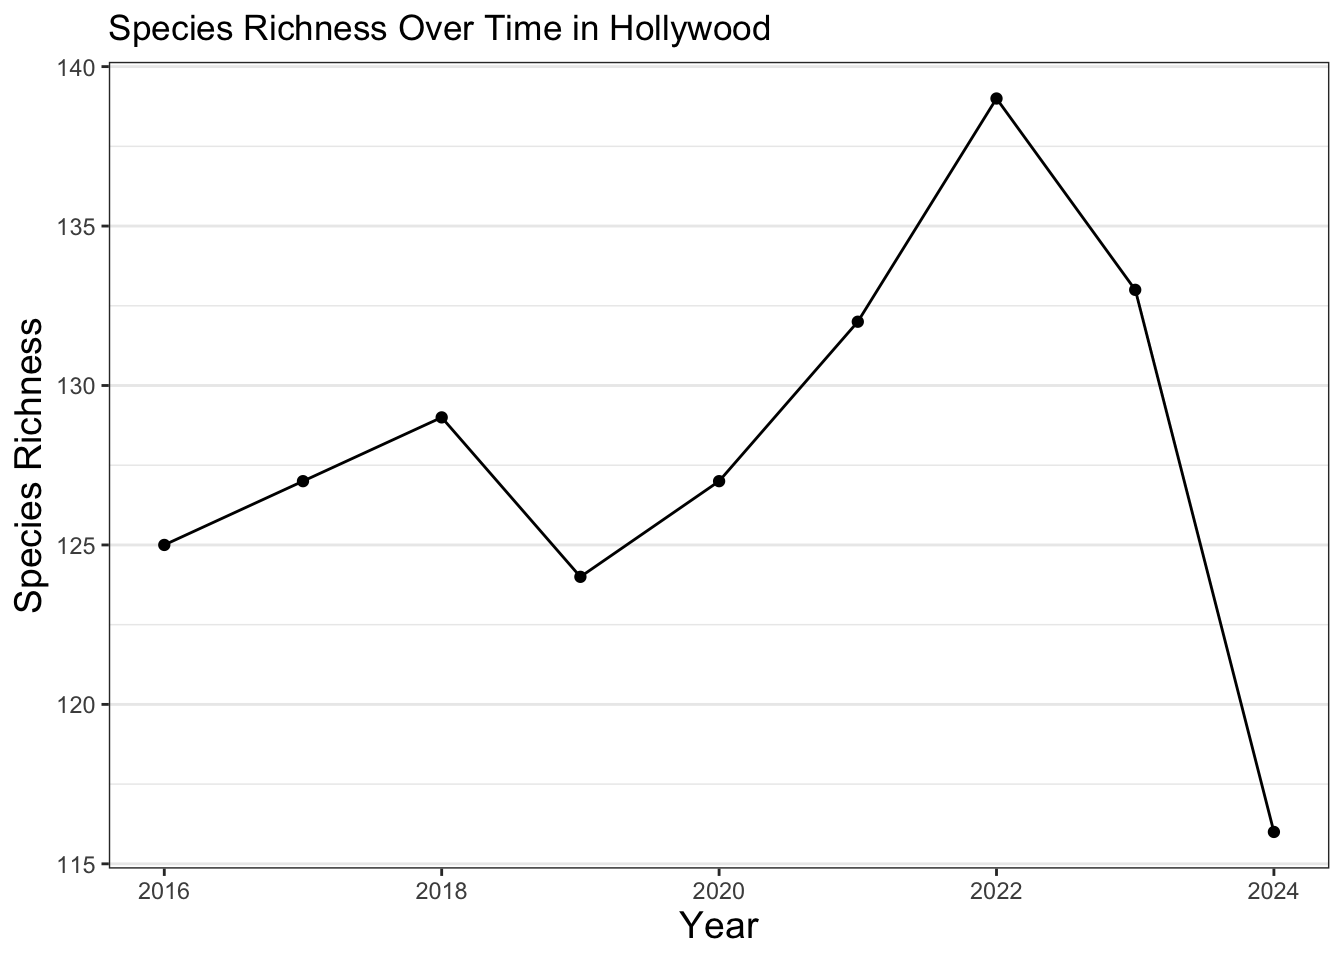
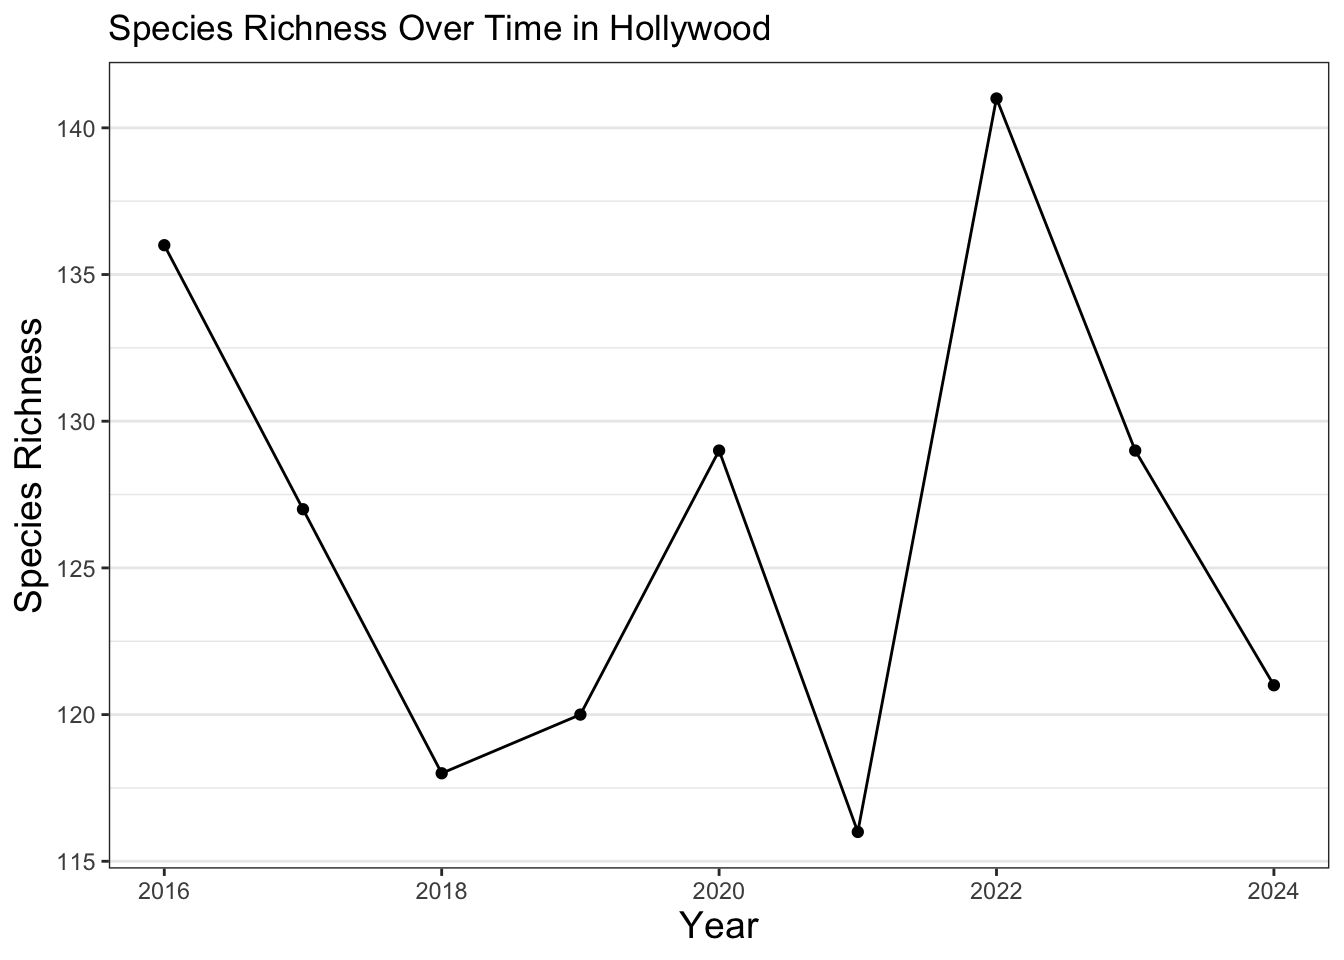
update docs

diff --git a/docs/lessons/example-analysis.html b/docs/lessons/example-analysis.html
@@ -428,7 +428,6 @@ date  (1): observed_on
        7        1      266 </code></pre>
 </div>
 </div>
-<p>266 research, 7 casual, and 1 needs id.</p>
 <p>Since there are a lot of ‘research’ grade observations, I’m fine with limiting the observations to ‘research’ grade.</p>
 <p>Since I want to look for observations in a certain area, I want to exclude observations that have obscured location. I use <code>table()</code> to get number of observations that have obscured locations.</p>
 <div class="cell">
@@ -439,7 +438,6 @@ FALSE  TRUE
   273     1 </code></pre>
 </div>
 </div>
-<p>273 false and 1 true.</p>
 <p>I add additional <code>filter()</code> commands for research grade and unobscured coordinates.</p>
 <div class="cell">
 <div class="sourceCode cell-code" id="cb12"><pre class="sourceCode r code-with-copy"><code class="sourceCode r"><span id="cb12-1"><a href="#cb12-1" aria-hidden="true" tabindex="-1"></a>heron_obs <span class="ot">&lt;-</span> inat_data <span class="sc">%&gt;%</span></span>
@@ -454,7 +452,20 @@ FALSE  TRUE
 <pre><code>[1] 266  37</code></pre>
 </div>
 </div>
-<p>We have 266 research observations for Great Blue Heron with unobscured locations.</p>
+<p>I have 266 research observations for Great Blue Heron with unobscured locations.</p>
+<div class="callout callout-style-default callout-note callout-titled">
+<div class="callout-header d-flex align-content-center">
+<div class="callout-icon-container">
+<i class="callout-icon"></i>
+</div>
+<div class="callout-title-container flex-fill">
+Note
+</div>
+</div>
+<div class="callout-body-container callout-body">
+<p>There are lots of different ways that to filter the iNaturalist data. You need to decide what criteria you want to use to filter the iNaturalist data.</p>
+</div>
+</div>
 <p>We can use <code>unique()</code> to double check the all the <code>filter()</code> queries give us the results we expect.</p>
 <div class="cell">
 <div class="sourceCode cell-code" id="cb14"><pre class="sourceCode r code-with-copy"><code class="sourceCode r"><span id="cb14-1"><a href="#cb14-1" aria-hidden="true" tabindex="-1"></a><span class="fu">unique</span>(heron_obs<span class="sc">$</span>taxon_kingdom_name)</span></code><button title="Copy to Clipboard" class="code-copy-button"><i class="bi"></i></button></pre></div>
@@ -482,7 +493,7 @@ FALSE  TRUE
 <section id="create-a-map-with-cnc-observations" class="level2">
 <h2 class="anchored" data-anchor-id="create-a-map-with-cnc-observations">Create a map with CNC observations</h2>
 <p>Now that I have the observations I want, I can plot them on a map.</p>
-<p>Since I want to create a map, I need to use <code>st_as_sf()</code> to convert the dataframe into a sf object with a <code>geometry</code> column. I pass in “longitude” and “latitude” to <code>coords</code> so that <code>st_as_sf()</code> know which columns are the longitude and latitude columns. I set the CRS as 4326.</p>
+<p>Since I want to create a map, I need to use <code>st_as_sf()</code> to convert the dataframe into a sf object. sf objects have a <code>geometry</code> column and other features that let us process geospatial data. I pass in “longitude” and “latitude” to <code>coords</code> so that <code>st_as_sf()</code> know which columns are the longitude and latitude columns. I set the CRS as 4326.</p>
 <div class="cell">
 <div class="sourceCode cell-code" id="cb23"><pre class="sourceCode r code-with-copy"><code class="sourceCode r"><span id="cb23-1"><a href="#cb23-1" aria-hidden="true" tabindex="-1"></a>heron_obs_sf <span class="ot">&lt;-</span> heron_obs <span class="sc">%&gt;%</span> </span>
 <span id="cb23-2"><a href="#cb23-2" aria-hidden="true" tabindex="-1"></a>  <span class="fu">st_as_sf</span>(<span class="at">coords =</span> <span class="fu">c</span>(<span class="st">"longitude"</span>, <span class="st">"latitude"</span>),   <span class="at">crs =</span> <span class="dv">4326</span>)</span></code><button title="Copy to Clipboard" class="code-copy-button"><i class="bi"></i></button></pre></div>
@@ -515,8 +526,8 @@ FALSE  TRUE
 <div class="cell">
 <div class="sourceCode cell-code" id="cb28"><pre class="sourceCode r code-with-copy"><code class="sourceCode r"><span id="cb28-1"><a href="#cb28-1" aria-hidden="true" tabindex="-1"></a>water_areas <span class="ot">&lt;-</span> <span class="fu">read_sf</span>(<span class="fu">here</span>(<span class="st">'data/cleaned/la_county_waterareas.geojson'</span>))</span></code><button title="Copy to Clipboard" class="code-copy-button"><i class="bi"></i></button></pre></div>
 </div>
-<p>I can double click <code>water_areas</code> in the Enviroment panel to look at content. Each row in the table represents a body of water. Some records have names in <code>FULLNAME</code>, some do not.</p>
-<p>When working with different geospatial datasets, we need the CRS to be the same so that everything lines up correctly. I use <code>st_crs()</code> to check the if the CRS of the heron observations is the same as the CRS of the water areas.</p>
+<p>I can double click <code>water_areas</code> in the Environment panel to look at content. Each row in the table represents a body of water. Some records have names in <code>FULLNAME</code>, some do not.</p>
+<p>When working with different geospatial data sets, we need the CRS to be the same so that everything lines up correctly. I use <code>st_crs()</code> to check the if the CRS of the heron observations is the same as the CRS of the water areas.</p>
 <div class="cell">
 <div class="sourceCode cell-code" id="cb29"><pre class="sourceCode r code-with-copy"><code class="sourceCode r"><span id="cb29-1"><a href="#cb29-1" aria-hidden="true" tabindex="-1"></a><span class="fu">st_crs</span>(water_areas) <span class="sc">==</span> <span class="fu">st_crs</span>(heron_obs_sf)</span></code><button title="Copy to Clipboard" class="code-copy-button"><i class="bi"></i></button></pre></div>
 <div class="cell-output cell-output-stdout">
@@ -555,7 +566,20 @@ Note
 </section>
 <section id="observations-near-bodies-of-water" class="level2">
 <h2 class="anchored" data-anchor-id="observations-near-bodies-of-water">Observations near bodies of water</h2>
-<p>I want to get observations within 1/2 mile of a body of water. This means I need to create a buffer 1/2 mile for all bodies of water and find observations inside the buffers.</p>
+<p>Bodies of water like rivers are kinda narrow and birds hangout in areas around water, so selecting observations that are inside river boundaries doesn’t make sense. Instead, I want to get observations within 1/2 mile of a body of water. This means I need to create a buffer 1/2 mile for all bodies of water and find observations inside the buffers.</p>
+<div class="callout callout-style-default callout-note callout-titled">
+<div class="callout-header d-flex align-content-center">
+<div class="callout-icon-container">
+<i class="callout-icon"></i>
+</div>
+<div class="callout-title-container flex-fill">
+Note
+</div>
+</div>
+<div class="callout-body-container callout-body">
+<p>Creating buffers is an optional step. If your analysis involves looking at the observations inside a region such as a park, neighborhood, county, etc, then you can skip the creating buffer.</p>
+</div>
+</div>
 <section id="create-buffer" class="level3">
 <h3 class="anchored" data-anchor-id="create-buffer">create buffer</h3>
 <p>We used CRS 4326 for the iNaturalist observations. CRS 4326 uses angle degrees. To create a buffer for a certain distance, I need to change the CRS to a CRS that uses meters. CRS 5070 uses meters.</p>
@@ -845,7 +869,7 @@ Note
 </div>
 </div>
 <div class="callout-body-container callout-body">
-<p>I don’t expect anyone in the workshop to understand this code. I just put the code here because I didn’t have time update the code in everyone’s repo.</p>
+<p>I don’t expect anyone in the workshop to understand this code. I just put the code here because I didn’t have time update the code in everyone’s repo. All you need to do is copy all this code into your script, and run the <code>download_inaturalist_images()</code> function.</p>
 </div>
 </div>
 <div class="cell">

diff --git a/docs/lessons/cleaning-data.html b/docs/lessons/cleaning-data.html
@@ -341,7 +341,7 @@ extracting from zip file</code></pre>
 <li>information about observations with threatened, native, and introduced species had to be downloaded separately</li>
 </ul>
 <p>In order to simplify things for the workshop attendees, we fixed the various issues and created a cleaned up CSV.</p>
-<p>These are the steps we took to produced the cleaned up file. The raw file is at ‘/var/folders/zw/0kb57jnn5nv9k3pgxsz86n7h0000gq/T//Rtmp5AeV5y/filea857154dd0fd’, the cleaned file is at ‘/Users/wyk/Development/science/city_nature_challenge/NHMLA_workshop/after_inaturalist_lesson/data/cleaned/cnc-los-angeles-observations.csv’</p>
+<p>These are the steps we took to produced the cleaned up file. The raw file is at ‘/var/folders/zw/0kb57jnn5nv9k3pgxsz86n7h0000gq/T//RtmpaUVlZj/filef9f7169ceaca’, the cleaned file is at ‘/Users/wyk/Development/science/city_nature_challenge/NHMLA_workshop/after_inaturalist_lesson/data/cleaned/cnc-los-angeles-observations.csv’</p>
 <div class="cell">
 <div class="sourceCode cell-code" id="cb5"><pre class="sourceCode r code-with-copy"><code class="sourceCode r"><span id="cb5-1"><a href="#cb5-1" aria-hidden="true" tabindex="-1"></a>tmp <span class="ot">&lt;-</span> <span class="fu">tempfile</span>()</span>
 <span id="cb5-2"><a href="#cb5-2" aria-hidden="true" tabindex="-1"></a>zip_path <span class="ot">&lt;-</span> <span class="fu">here</span>(<span class="st">'data/raw/observations-513664.zip'</span>)</span>

diff --git a/docs/lessons/normalizing-inat.html b/docs/lessons/normalizing-inat.html
@@ -431,14 +431,14 @@ are planar</code></pre>
 <div class="cell-output cell-output-stdout">
 <pre><code># A tibble: 6 × 2
 # Groups:   year [1]
-   year scientific_name        
-  &lt;dbl&gt; &lt;chr&gt;                  
-1  2016 Malva parviflora       
-2  2016 Ribes speciosum        
-3  2016 Columba livia domestica
-4  2016 Cenchrus setaceus      
-5  2016 Hazardia squarrosa     
-6  2016 Dudleya lanceolata     </code></pre>
+   year scientific_name         
+  &lt;dbl&gt; &lt;chr&gt;                   
+1  2016 Encelia californica     
+2  2016 Zenaida macroura        
+3  2016 Melanerpes formicivorus 
+4  2016 Libellula croceipennis  
+5  2016 Otospermophilus beecheyi
+6  2016 Malacothrix saxatilis   </code></pre>
 </div>
 </div>
 <p>We can use table to confirm we get <code>lowest_year</code> number of observations per year.</p>
@@ -465,15 +465,15 @@ are planar</code></pre>
 # Groups:   year [9]
    year richness
   &lt;dbl&gt;    &lt;int&gt;
-1  2016      125
+1  2016      136
 2  2017      127
-3  2018      129
-4  2019      124
-5  2020      127
-6  2021      132
-7  2022      139
-8  2023      133
-9  2024      116</code></pre>
+3  2018      118
+4  2019      120
+5  2020      129
+6  2021      116
+7  2022      141
+8  2023      129
+9  2024      121</code></pre>
 </div>
 </div>
 <p>Next, we can create a chart and visualize the results. Here, we use commands for how the plot looks similar to other plots we’ve created previously.</p>

diff --git a/docs/lessons/additional-analysis.html b/docs/lessons/additional-analysis.html
@@ -754,8 +754,8 @@ $ geometry           &lt;POINT [°]&gt; POINT (-118.5365 34.38503), POINT (-118.
 <span id="cb55-6"><a href="#cb55-6" aria-hidden="true" tabindex="-1"></a><span class="fu">table</span>(my_inat<span class="sc">$</span>observed_on)</span></code><button title="Copy to Clipboard" class="code-copy-button"><i class="bi"></i></button></pre></div>
 <div class="cell-output cell-output-stdout">
 <pre><code>
-2018-04-28 2018-04-29 2021-04-30 2022-05-01 
-         1          1          1          2 </code></pre>
+2017-04-18 2023-04-29 2023-05-01 2024-04-28 
+         1          2          1          1 </code></pre>
 </div>
 </div>
 <p>Once we have the observations we want, call custom function <code>download_inaturalist_images()</code> to download the images for the observations. The images are saved in the results directory. A new directory will be created for each <code>scientific_name</code>. The image name will contain the scientific name, observation id, username and license.</p>
